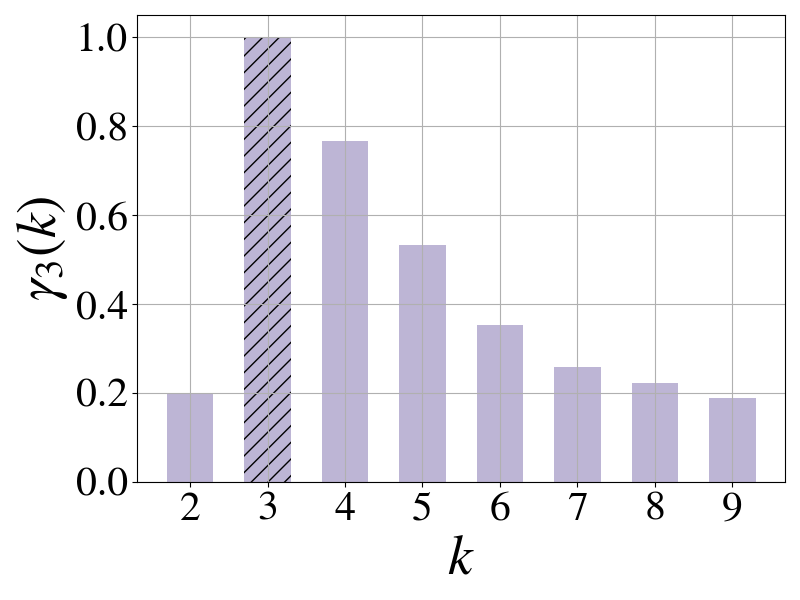
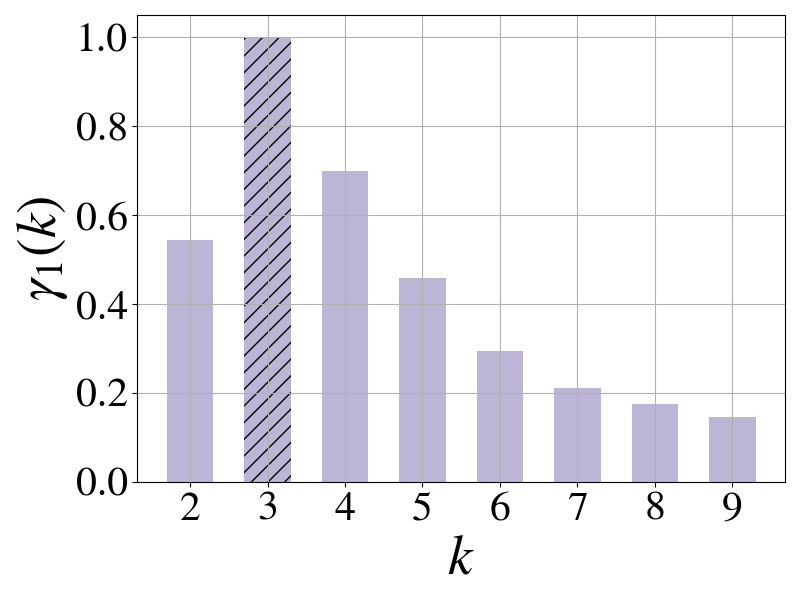
fig 7(f) modification

diff --git a/Fig. 7/subplot (f)/bar_graph.py b/Fig. 7/subplot (f)/bar_graph.py
@@ -21,7 +21,7 @@ E_UDef = data[:,15]
 # Calculating gamma 3
 # ----------------------------
 
-score2 = Avg_U*Avg_D/E_UDef
+score2 = Avg_U/E_UDef
 
 # Normalize
 score2_norm = score2 / np.max(score2)
@@ -41,7 +41,7 @@ bars[max_idx].set_linewidth(2)
 #-----------------------------
 
 plt.xlabel(f"$k$", fontsize=40)
-plt.ylabel(f"$\gamma_3(k)$", fontsize=40)
+plt.ylabel(f"$\gamma_1(k)$", fontsize=40)
 
 
 